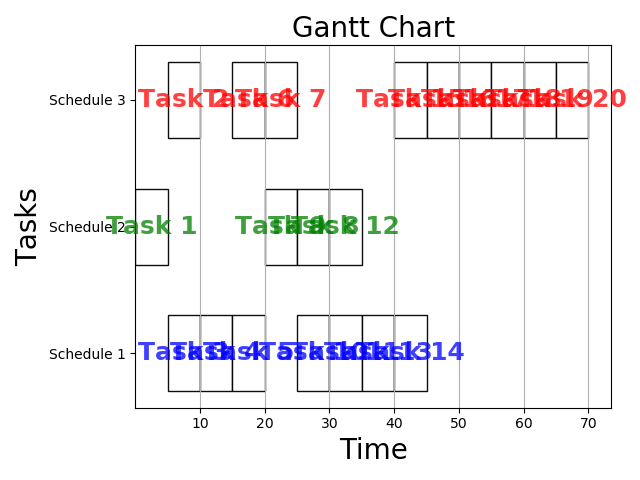
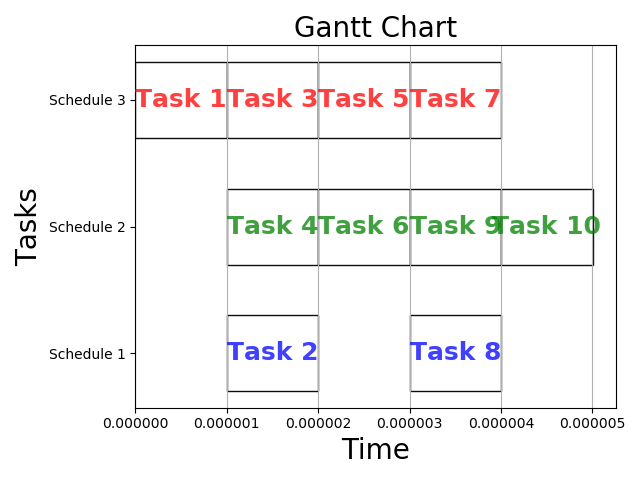
update

diff --git a/src/ros_mpi/scripts/master.py b/src/ros_mpi/scripts/master.py
@@ -151,7 +151,7 @@ elif taskType == 'Dependent':
         # [5, 11, 4],
         # [18, 12, 20],
         # [21, 7, 16]]
-        comp = [[12.164249102442461, 10.19234567082301, 19.35626155644548], [12.96963026584221, 17.397969055797574, 10.800366001337327], [13.308863130493055, 17.040360967433337, 13.96074696446106], [17.84351120297285, 18.820787153130347, 19.87440797081596], [11.566646484550262, 10.7740196841573, 19.178230996092097], [14.54309190422558, 18.569895504037333, 10.016734942195923], [19.589215299721335, 16.645700862654294, 14.318789302909622], [16.75996013189734, 11.097542423516382, 12.249537043195904], [14.177388247724856, 13.100957659695569, 19.529151517659663], [16.369214130739547, 17.054433482423704, 18.49604129275724], [13.001894030246003, 18.38240328697433, 16.37728842149799], [17.12881222286068, 12.120916216726918, 12.769953950274564], [11.377317047301645, 16.257311331583786, 11.419337670664682], [13.481182137184916, 19.615976261702208, 19.322822111181097], [10.2020883698409, 18.70725715404938, 16.4654729289784], [11.369355305192553, 12.973714321308229, 12.125334058996827], [13.35029603331369, 14.353637087223763, 12.516991869836236], [10.112792921728833, 16.9685729732629, 10.307279273449193], [13.125875771610502, 13.435090362953119, 13.574738690462537], [12.72582765872258, 11.946915722734635, 12.514383389218455]]
+        # comp = [[12.164249102442461, 10.19234567082301, 19.35626155644548], [12.96963026584221, 17.397969055797574, 10.800366001337327], [13.308863130493055, 17.040360967433337, 13.96074696446106], [17.84351120297285, 18.820787153130347, 19.87440797081596], [11.566646484550262, 10.7740196841573, 19.178230996092097], [14.54309190422558, 18.569895504037333, 10.016734942195923], [19.589215299721335, 16.645700862654294, 14.318789302909622], [16.75996013189734, 11.097542423516382, 12.249537043195904], [14.177388247724856, 13.100957659695569, 19.529151517659663], [16.369214130739547, 17.054433482423704, 18.49604129275724], [13.001894030246003, 18.38240328697433, 16.37728842149799], [17.12881222286068, 12.120916216726918, 12.769953950274564], [11.377317047301645, 16.257311331583786, 11.419337670664682], [13.481182137184916, 19.615976261702208, 19.322822111181097], [10.2020883698409, 18.70725715404938, 16.4654729289784], [11.369355305192553, 12.973714321308229, 12.125334058996827], [13.35029603331369, 14.353637087223763, 12.516991869836236], [10.112792921728833, 16.9685729732629, 10.307279273449193], [13.125875771610502, 13.435090362953119, 13.574738690462537], [12.72582765872258, 11.946915722734635, 12.514383389218455]]
 
 
         # UAV communication matrix
@@ -165,8 +165,28 @@ elif taskType == 'Dependent':
         #                 [0, 0, 0, 0, 0, 0, 0, 0, 0, 1],
         #                 [0, 0, 0, 0, 0, 0, 0, 0, 0, 1],
         #                 [0, 0, 0, 0, 0, 0, 0, 0, 0, 0]]
-        comm = [[0, 1, 1, 0, 1, 1, 1, 1, 1, 1, 1, 1, 1, 1, 1, 1, 0, 1, 1, 1], [0, 0, 0, 1, 1, 1, 1, 1, 0, 1, 1, 0, 1, 1, 1, 1, 0, 1, 1, 1], [0, 0, 0, 1, 0, 1, 1, 1, 0, 1, 1, 1, 1, 1, 1, 1, 1, 1, 0, 1], [0, 0, 0, 0, 1, 1, 1, 1, 1, 1, 0, 1, 1, 0, 1, 1, 1, 1, 1, 1], [0, 0, 0, 0, 0, 0, 0, 1, 1, 1, 1, 1, 1, 1, 1, 1, 0, 1, 0, 1], [0, 0, 0, 0, 0, 0, 1, 1, 0, 1, 1, 1, 1, 0, 1, 1, 1, 1, 1, 1], [0, 0, 0, 0, 0, 0, 0, 1, 0, 1, 1, 1, 1, 1, 1, 1, 1, 1, 1, 1], [0, 0, 0, 0, 0, 0, 0, 0, 0, 0, 1, 1, 1, 1, 1, 1, 1, 1, 1, 1], [0, 0, 0, 0, 0, 0, 0, 0, 0, 1, 1, 1, 1, 1, 0, 1, 1, 0, 1, 1], [0, 0, 0, 0, 0, 0, 0, 0, 0, 0, 1, 1, 1, 0, 1, 1, 1, 1, 1, 1], [0, 0, 0, 0, 0, 0, 0, 0, 0, 0, 0, 0, 1, 1, 1, 1, 1, 1, 1, 1], [0, 0, 0, 0, 0, 0, 0, 0, 0, 0, 0, 0, 0, 1, 1, 1, 1, 0, 0, 1], [0, 0, 0, 0, 0, 0, 0, 0, 0, 0, 0, 0, 0, 1, 1, 1, 1, 1, 1, 1], [0, 0, 0, 0, 0, 0, 0, 0, 0, 0, 0, 0, 0, 0, 0, 1, 1, 0, 1, 1], [0, 0, 0, 0, 0, 0, 0, 0, 0, 0, 0, 0, 0, 0, 0, 1, 1, 0, 1, 0], [0, 0, 0, 0, 0, 0, 0, 0, 0, 0, 0, 0, 0, 0, 0, 0, 1, 0, 1, 1], [0, 0, 0, 0, 0, 0, 0, 0, 0, 0, 0, 0, 0, 0, 0, 0, 0, 1, 1, 1], [0, 0, 0, 0, 0, 0, 0, 0, 0, 0, 0, 0, 0, 0, 0, 0, 0, 0, 1, 1], [0, 0, 0, 0, 0, 0, 0, 0, 0, 0, 0, 0, 0, 0, 0, 0, 0, 0, 0, 1], [0, 0, 0, 0, 0, 0, 0, 0, 0, 0, 0, 0, 0, 0, 0, 0, 0, 0, 0, 0]]
+        # comm = [[0, 1, 1, 0, 1, 1, 1, 1, 1, 1, 1, 1, 1, 1, 1, 1, 0, 1, 1, 1], [0, 0, 0, 1, 1, 1, 1, 1, 0, 1, 1, 0, 1, 1, 1, 1, 0, 1, 1, 1], [0, 0, 0, 1, 0, 1, 1, 1, 0, 1, 1, 1, 1, 1, 1, 1, 1, 1, 0, 1], [0, 0, 0, 0, 1, 1, 1, 1, 1, 1, 0, 1, 1, 0, 1, 1, 1, 1, 1, 1], [0, 0, 0, 0, 0, 0, 0, 1, 1, 1, 1, 1, 1, 1, 1, 1, 0, 1, 0, 1], [0, 0, 0, 0, 0, 0, 1, 1, 0, 1, 1, 1, 1, 0, 1, 1, 1, 1, 1, 1], [0, 0, 0, 0, 0, 0, 0, 1, 0, 1, 1, 1, 1, 1, 1, 1, 1, 1, 1, 1], [0, 0, 0, 0, 0, 0, 0, 0, 0, 0, 1, 1, 1, 1, 1, 1, 1, 1, 1, 1], [0, 0, 0, 0, 0, 0, 0, 0, 0, 1, 1, 1, 1, 1, 0, 1, 1, 0, 1, 1], [0, 0, 0, 0, 0, 0, 0, 0, 0, 0, 1, 1, 1, 0, 1, 1, 1, 1, 1, 1], [0, 0, 0, 0, 0, 0, 0, 0, 0, 0, 0, 0, 1, 1, 1, 1, 1, 1, 1, 1], [0, 0, 0, 0, 0, 0, 0, 0, 0, 0, 0, 0, 0, 1, 1, 1, 1, 0, 0, 1], [0, 0, 0, 0, 0, 0, 0, 0, 0, 0, 0, 0, 0, 1, 1, 1, 1, 1, 1, 1], [0, 0, 0, 0, 0, 0, 0, 0, 0, 0, 0, 0, 0, 0, 0, 1, 1, 0, 1, 1], [0, 0, 0, 0, 0, 0, 0, 0, 0, 0, 0, 0, 0, 0, 0, 1, 1, 0, 1, 0], [0, 0, 0, 0, 0, 0, 0, 0, 0, 0, 0, 0, 0, 0, 0, 0, 1, 0, 1, 1], [0, 0, 0, 0, 0, 0, 0, 0, 0, 0, 0, 0, 0, 0, 0, 0, 0, 1, 1, 1], [0, 0, 0, 0, 0, 0, 0, 0, 0, 0, 0, 0, 0, 0, 0, 0, 0, 0, 1, 1], [0, 0, 0, 0, 0, 0, 0, 0, 0, 0, 0, 0, 0, 0, 0, 0, 0, 0, 0, 1], [0, 0, 0, 0, 0, 0, 0, 0, 0, 0, 0, 0, 0, 0, 0, 0, 0, 0, 0, 0]]
+        comp = [[14,16,9],
+                        [13,19,18],
+                        [11,13,19],
+                        [13,8,17],
+                        [12,13,10],
+                        [13,16,9],
+                        [7,15,11],
+                        [5,11,4],
+                        [18,12,20],
+                        [21,7,16]]
 
+        comm = [[0,18,12,9,11,14,0,0,0,0],
+                [0,0,0,0,0,0,0,19,16,0],
+                [0,0,0,0,0,0,23,0,0,0],
+                [0,0,0,0,0,0,0,27,23,0],
+                [0,0,0,0,0,0,0,0,13,0],
+                [0,0,0,0,0,0,0,15,0,0],
+                [0,0,0,0,0,0,0,0,0,17],
+                [0,0,0,0,0,0,0,0,0,11],
+                [0,0,0,0,0,0,0,0,0,13],
+                [0,0,0,0,0,0,0,0,0,0]]
         # comm = np.where(read_dag('test.dot')[-1] >= 0, 1, 0).tolist()
         # print(comm)
         # print(comp)

diff --git a/src/ros_mpi/scripts/util.py b/src/ros_mpi/scripts/util.py
@@ -198,14 +198,14 @@ class Node:
             #call dynamic heft             
             # print(f'currrent time slot {timeslot}')
             self.testorchest.dy_heft(incomplete_task,timeslot)
+            self.testorchest.update_comm(0.1)
             # self.testorchest.update_comm(np.mean([self.comm_time(self.node_id,u) for u in range(2,self.numberOfComputingNode+1)]))
-            self.testorchest.update_comm(np.mean([self.comm_time(self.node_id,u) for u in range(2,self.numberOfComputingNode+1)]))
             # for u in range(2,self.numberOfComputingNode+1):
             #     print(f'data rate between {self.node_id} and worker {u} is {self.comm_time(self.node_id,u)}')
             # temp_task = [x for x in incomplete_task if testobj.task_flag[x]]
             # print(f'at line 344 { testobj.task_flag}')
             
-            timeslot += 50
+            timeslot += 1
             # print(f'complete list: {complete_list}')
             # for i in complete_list:
             #     task_status_flag[i] = True
@@ -380,7 +380,7 @@ class Master:
         self.communication_time_rec=[]
         self.nodeid = node_id
         config = configparser.ConfigParser()
-        config.read('/home/jxie/rossim/src/ros_mpi/scripts/property.properties')
+        config.read('property.properties')
         self.comm_range = float(config.get('UAV','comm_range'))
         # noise=0.0000000000001,band_width=5000000 , transmission_power=0.5,alpha=4.0
         # density = float(config.get('Task','density'))
@@ -467,7 +467,8 @@ class Master:
                         x.st = max(self.master_task[-1].et, self.pred_aft(x)+trans_time) if self.master_task else self.pred_aft(x)+trans_time
                         x.et = x.st + ((x.size/x.ci)*10)
                         self.comp_energy.append([x.delta * (x.size/x.ci),x.task_idx])
-                        self.comp_time.append([(x.size/x.ci),x.task_idx])
+                        # self.comp_time.append([(x.size/x.ci),x.task_idx])
+                        self.comp_time.append([20,x.task_idx]) #computatin time
                         self.master_task.append(x)
                         if self.master_task[-1].st < 0:
                             continue
@@ -556,7 +557,7 @@ class Worker:
             # print('/uav%d/ground_truth_to_tf/pose'%(data.processor_id+1))
             worker_1 = rospy.wait_for_message('/uav%d/ground_truth_to_tf/pose'%(data.processor_id+1),PoseStamped)
             worker_2 = rospy.wait_for_message(self.loc,PoseStamped)
-
+ 
             distance = math.dist([worker_1.pose.position.x,worker_1.pose.position.y,worker_1.pose.position.z],
                                 [worker_2.pose.position.x,worker_2.pose.position.y,worker_2.pose.position.z])
             current_datarate = self.datarate.data_rate(distance)

diff --git a/src/ros_mpi/scripts/orchestrator.py b/src/ros_mpi/scripts/orchestrator.py
@@ -40,7 +40,8 @@ class Orchestrator:
             task.task_idx = t
             task.processor_id = -1
             task.dependency=[]
-            task.size = random.randint(500000,1000000) #number of instructions
+            # task.size = random.randint(500000,1000000) #number of instructions
+            task.size = 0.1
             # task.size = random.randint(self.taskMin,self.taskMax) 
             task.st = 0
             task.et = 0
@@ -183,7 +184,8 @@ class Orchestrator:
                 task.processor_id = self.locate_task(t)
                 task.dependency=self.predecessor_task(t)
                 # task.size = random.randint(self.taskMin,self.taskMax) #number of instructions
-                task.size = 5000000 #number of instructions
+                # task.size = 5000000 #number of instructions
+                task.size = 1
                 task.st = 0
                 task.et = 0
                 # task.ci = random.randint(4000000, 8000000) #instruction per second
@@ -379,7 +381,7 @@ if __name__ == '__main__':
         # temp_task = [x for x in incomplete_task if testobj.task_flag[x]]
         # print(f'at line 344 { testobj.task_flag}')
         
-        timeslot += 1
+        timeslot += 0.1
         # print(f'complete list: {complete_list}')
         # for i in complete_list:
         #     task_status_flag[i] = True

diff --git a/src/pos_controller/scripts/waypoint_follower.py b/src/pos_controller/scripts/waypoint_follower.py
@@ -143,8 +143,8 @@ class WaypoingFollower:
             px.append(p[0])
             py.append(p[1])
             pz.append(abs(p[2]))
-        # for goal_x, goal_y, goal_z in zip(path['x'], path['y'], path['z']):
-        for goal_x, goal_y, goal_z in zip(px,py, pz):
+        for goal_x, goal_y, goal_z in zip(path['x'], path['y'], path['z']):
+        # for goal_x, goal_y, goal_z in zip(px,py, pz):
             print('Goal is', goal_x, goal_y, goal_z)
             print('Current position: x=%4.1f, y=%4.1f, z=%4.1f'%(self.pose[0], self.pose[1], self.pose[2]))
             distance = sqrt((self.pose[0]-goal_x)**2 + (self.pose[1]-goal_y)**2 + (self.pose[2]-goal_z)**2)

diff --git a/src/ros_mpi/scripts/dataplot.py b/src/ros_mpi/scripts/dataplot.py
@@ -378,6 +378,10 @@ class PlotGraph:
     
 if __name__ == '__main__':
 
+
+
+    plgraph = PlotGraph(3)
+    plgraph.gantt_chart()
     # data=[]
     # for i in range(5):
     #     with open('/home/jxie/rossim/src/ros_mpi/task_succ/capacity3_iter_%d.pkl'%i, 'rb') as file:
@@ -411,7 +415,7 @@ if __name__ == '__main__':
 
 
     ####
-    with open('/home/jxie/rossim/src/ros_mpi/data/uav2.pkl','rb') as file:
-        content = pickle.load(file)
-    print([x.task_idx for x in content])
+    # with open('/home/jxie/rossim/src/ros_mpi/data/uav2.pkl','rb') as file:
+    #     content = pickle.load(file)
+    # print([x.task_idx for x in content])
 

diff --git a/src/ros_mpi/scripts/taskgen.py b/src/ros_mpi/scripts/taskgen.py
@@ -67,7 +67,8 @@ class TaskGen():
             task.task_idx = i
             task.processor_id = -1
             task.dependency=[]
-            task.size = random.randint(self.taskMin,self.taskMax) #number of instructions
+            # task.size = random.randint(self.taskMin,self.taskMax) #number of instructions
+            task.size = 1
             # task.size = random.randint(self.taskMin,self.taskMax) 
             task.st = 0
             task.et = 0
